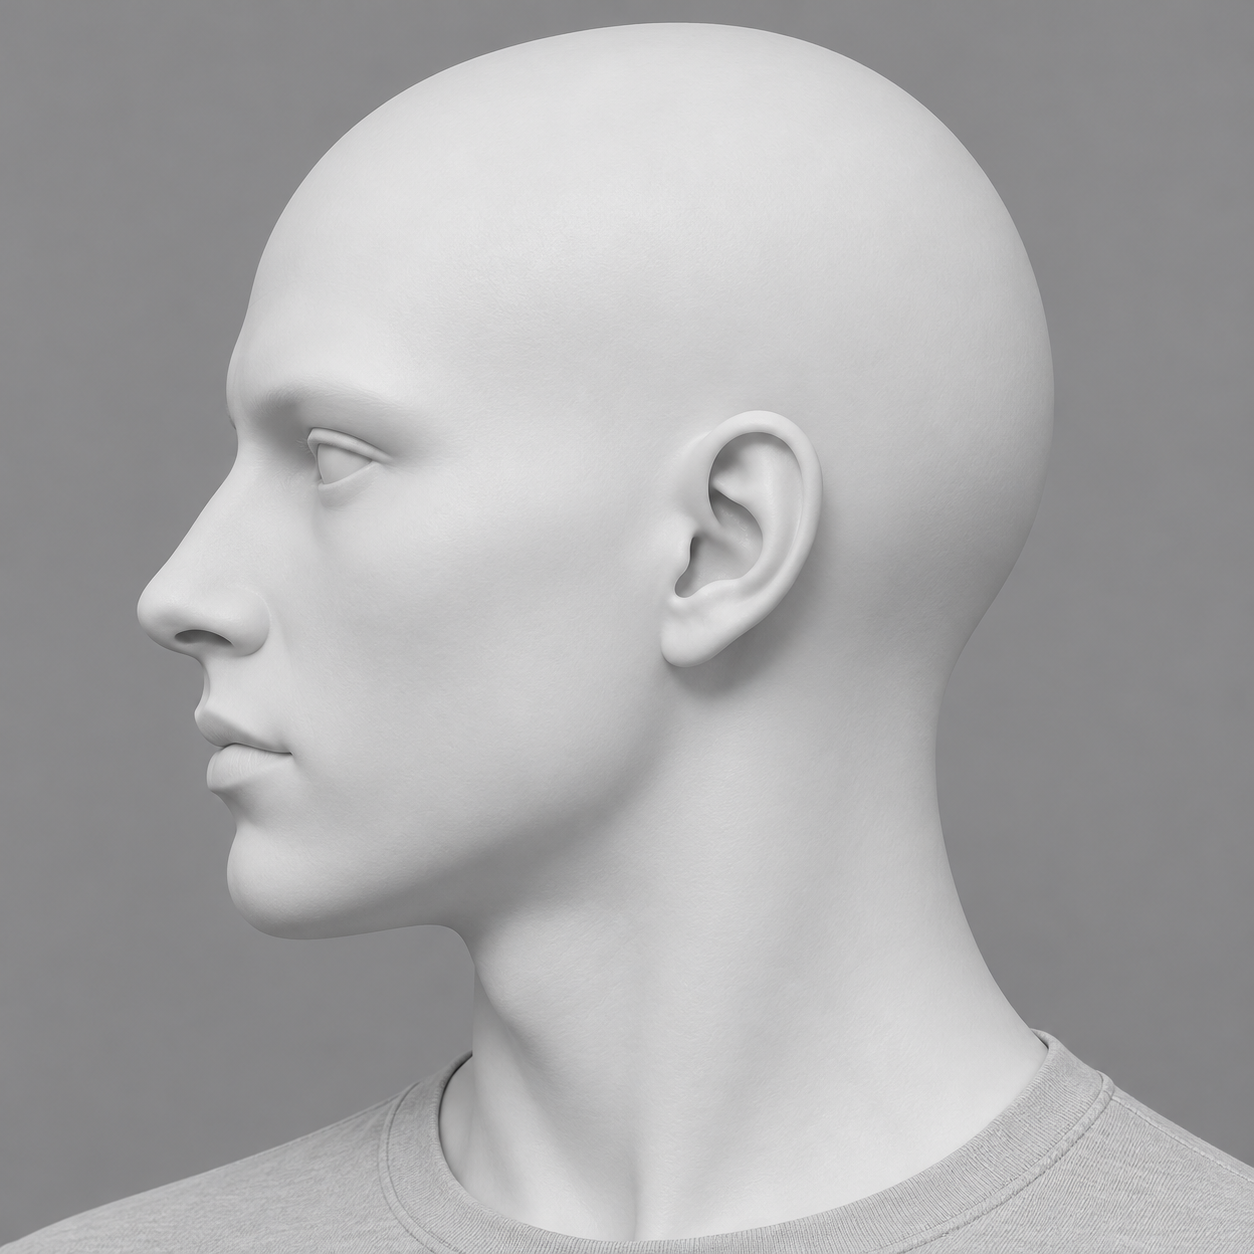
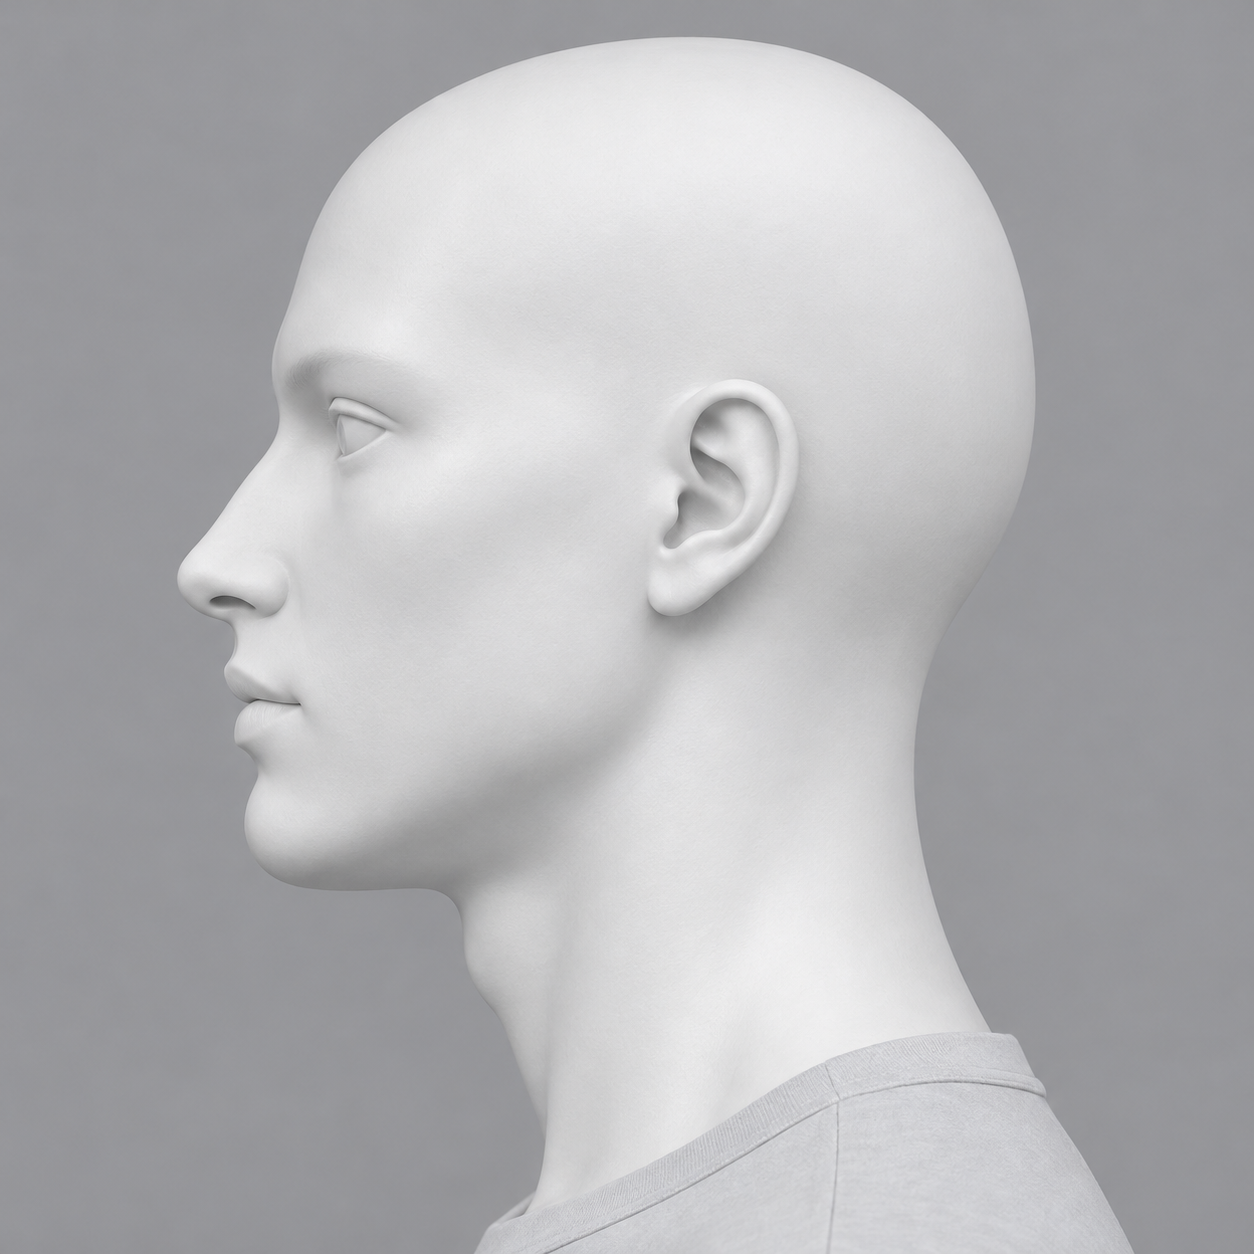
fix: align the entire body with the side-profile head

diff --git a/skills/character-asset-card/references/consistency-review.md b/skills/character-asset-card/references/consistency-review.md
@@ -5,7 +5,7 @@
 ## 输入与判断
 
 1. 先核对本轮实际生图参数中的白模路径、SHA与模块方向，确认构图参考真正传入；缺失时记录缺失，不能凭提示词声称已使用。打开身份、造型、对应白模及全部采用图。大图可以先看整体，再查看疑点区域；不能只看缩小整卡或沿用上轮检查结论。
-2. 六宫格先检查构图：上排三张为1:1紧凑头部特写（头顶至下巴约80%为目标），头部明显占主导、三张大小相近，完整头顶、下巴与自然脖子保留，肩根和衣领只占底部少量区域；下排三张完整保留脖子、双肩和鞋底，脖子连续穿出上边界，不是无脖子或封口模型。再比较上下排共享肩颈、衣领和方向是否一致。比例/文件检查不能替代这些观察。
+2. 六宫格先检查构图：上排三张为1:1紧凑头部特写（头顶至下巴约80%为目标），头部明显占主导、三张大小相近，完整头顶、下巴与自然脖子保留，肩根和衣领只占底部少量区域；下排三张完整保留脖子、双肩和鞋底，脖子连续穿出上边界，不是无脖子或封口模型。侧面另外核对整个人同向：头部、颈部、肩线和胸廓均侧向，近侧肩膀遮住远侧肩膀；不能只凭侧脸轮廓判断身体也已侧向。再比较上下排共享肩颈、衣领和方向是否一致。比例/文件检查不能替代这些观察。
 3. 理解这套图是否表达同一个角色、同一套设计。自行从画面提炼需要跨图保持的属性、结构与关系，同时尊重本次明确允许的变化。
 4. 跨视图比较，解释差异能否由视角、姿态、遮挡、透视或光照产生。只把无法用这些因素解释、且有可见证据的冲突列为问题。未知部分与不确定判断单独记录，不能当作已证实缺陷自动改写。
 5. 依据用户明确设定和参考职责确定修复方向，不能简单投票选多数生成结果。多张图相互冲突但没有可靠依据时，保留问题并请求必要澄清。

diff --git a/skills/character-asset-card/SKILL.md b/skills/character-asset-card/SKILL.md
@@ -33,7 +33,7 @@ description: 默认制作三列两排六宫格人物资产卡：上排正侧背1
 - **构图来源（六宫格）**：默认使用随skill提供的 `assets/framing/manifest.json` 及对应单格PNG；上排使用头部特写白模，下排使用保留脖子至鞋底白模。每格实际传入对应白模，并与身份、服装参考分工。用户指定的构图参考优先。白模与最新目标不一致时先更新白模，不能只改提示词后仍沿用旧构图。白模只管相机方向、头部占比和画面边界，不传递其脸型、身形、材质、发型、衣服或肤色。
 - **造型来源**：哪张图负责发型、服装层次与版型、图案、鞋、包和配饰。眼镜、瞳色等冲突按用户本次要求明确取舍。
 - **原样保留与有意变更**：分别列出。保留肤色妆容时，用中性柔光减少参考环境的色偏，不把磨皮、美白或统一肤色当作“真实版”。
-- **方向和结构**：写人物自身左/右、肩带所在肩、腕饰所在手；每个视角另写画面左/右映射。侧面明确哪一侧朝相机、鼻尖朝画面哪边，不用镜像补救左右错误。
+- **方向和结构**：写人物自身左/右、肩带所在肩、腕饰所在手；每个视角另写画面左/右映射。侧面要求整个人整体转到90度：头、颈、肩线、胸廓、骨盆和脚同向，近侧肩膀遮住远侧肩膀；头部特写也保持这一身体方向。明确哪一侧朝相机、鼻尖朝画面哪边，不用镜像补救左右错误。
 - **未知部分**：参考没有出现的背面可作克制的设计补全，必须标注。参考没拍到下半身或鞋履时，按现有造型做克制、一致的设计补全，并在记录与卡片说明中标注；不得因此自动改为膝上或半身，也不冒称还原。
 - **模块、画幅、交付**：记录六宫格/指定四视图/复杂分模块及每格景别。六宫格上排1:1头部肩颈、下排保留脖子至鞋底；复杂模块数量按本次要求，不把历史九模块当固定数量。
 

diff --git a/skills/character-asset-card/references/six-grid-template.md b/skills/character-asset-card/references/six-grid-template.md
@@ -38,6 +38,8 @@ python3 scripts/check_framing_reference.py 实际生图参数.json --view head-f
 
 参数JSON应保存真正要传给生图工具的 `prompt` 与 `referenced_image_paths`。脚本检查对应白模原文件SHA确实出现在该路径列表中；自定义构图参考用 `--framing-reference` 指定。随后实际调用必须使用同一份参数，回传后记录实际引用路径/SHA、输出与采用原因。该检查证明参数包含参考，构图服从与人物一致性仍须实际看图。
 
+侧面参考统一按整个人的90度侧向判断：同时核对头部轮廓、颈部、肩膀遮挡和胸廓朝向，上下两格保持同向。
+
 ## 可直接填写的构图句
 
 共享身份、造型、背景、照明要求仍来自本次角色设定，每次调用只生成一格。每次明确写：`参考A负责身份，参考B负责服装；参考C只负责本格相机角度与取景，按C的头部占比和画面边界拍摄A本人，保留A的头颈比例、头发与肤色，穿B的衣服。` 同时实际传入A/B/C图片。
@@ -48,7 +50,7 @@ python3 scripts/check_framing_reference.py 实际生图参数.json --view head-f
 
 上排侧面：
 
-> 生成一张1:1方形的紧凑左侧头部特写。人物左侧朝相机，鼻尖朝画面左，头部与肩颈同向。完整保留头顶、鼻尖、下巴和自然脖子，头顶至下巴约占图高80%。底部仅带少量近侧肩根和衣领，肩膀外端与大部分上胸在画外，脖子自然连续。
+> 生成一张1:1方形的紧凑左侧头部特写。完整人物整体向左转90度，头部、脖子、双肩、胸廓、骨盆与脚尖全部朝画面左；相机垂直对准人物左侧。近侧肩膀遮住远侧肩膀，胸前面朝画面左并与相机视线平行。即使只拍头部和少量肩根，身体仍保持同一严格侧向。完整保留头顶、鼻尖、下巴和自然脖子，头顶至下巴约占图高80%。底部仅带少量近侧肩根和衣领，肩膀外端与大部分上胸在画外，脖子自然连续。
 
 上排背面：
 

diff --git a/skills/character-asset-card/references/prompt-and-record.md b/skills/character-asset-card/references/prompt-and-record.md
@@ -24,7 +24,7 @@
 
 ## 各模块变量
 
-- **正面/侧面/背面**：身体与头部是否同向、严格侧面还是3/4、人物哪侧靠近相机、鼻尖朝画面哪边、相同取景上下界，六宫格按上排头部肩颈/下排保留脖子至鞋底分别写取景；指定四视图的正侧背为完整头顶至鞋底并留白。纯侧面时头、胸、髋与脚同向，不能仅转头而让身体朝镜头。正面人物左侧通常在画面右，背面人物左侧在画面左；姿势变化时重新确认。
+- **正面/侧面/背面**：身体与头部是否同向、严格侧面还是3/4、人物哪侧靠近相机、鼻尖朝画面哪边、相同取景上下界，六宫格按上排头部肩颈/下排保留脖子至鞋底分别写取景；指定四视图的正侧背为完整头顶至鞋底并留白。纯侧面时整个人转满90度，头、颈、肩线、胸、髋与脚同向，近侧肩膀遮住远侧肩膀；紧凑头部特写的画外身体也保持此方向。正面人物左侧通常在画面右，背面人物左侧在画面左；姿势变化时重新确认。
 - **六宫格构图**：读取 [six-grid-template.md](six-grid-template.md) 的正向取景模板。上下排都保留自然脖子与肩颈连接；下排只是头部在画面外，不能出现封口、空领口或缺失脖子。
 - **表情**：平静/轻微闭唇微笑/专注/轻微惊讶等，写出眼、眉、唇的变化程度；头部方向与人脸占比尽量统一。情绪强度按用户需要，不默认夸张大笑。
 - **服装**：只展示相关材质、领口、叠穿或扣件结构，写明画面边界，避免无关脸部进入细节格。

diff --git a/README.md b/README.md
@@ -21,7 +21,7 @@
 
 ## 内置白模构图参考
 
-Skill随附六张原生PNG，见 [参考目录与SHA](skills/character-asset-card/assets/framing/manifest.json)。上排三张已按紧凑头部特写重生，保留自然脖子与少量衣领；下排为保留脖子至鞋底的三个视角。六宫格逐格实际传入对应白模，身份与服装使用各自参考。
+Skill随附六张原生PNG，见 [参考目录与SHA](skills/character-asset-card/assets/framing/manifest.json)。上排三张已按紧凑头部特写重生，保留自然脖子与少量衣领；下排为保留脖子至鞋底的三个视角。六宫格逐格实际传入对应白模，身份与服装使用各自参考。侧面统一为整个人转满90度，头、颈、肩胸与骨盆同向。
 
 [正面头部](skills/character-asset-card/assets/framing/head-front.png) · [侧面头部](skills/character-asset-card/assets/framing/head-left.png) · [背面头部](skills/character-asset-card/assets/framing/head-back.png)
 
